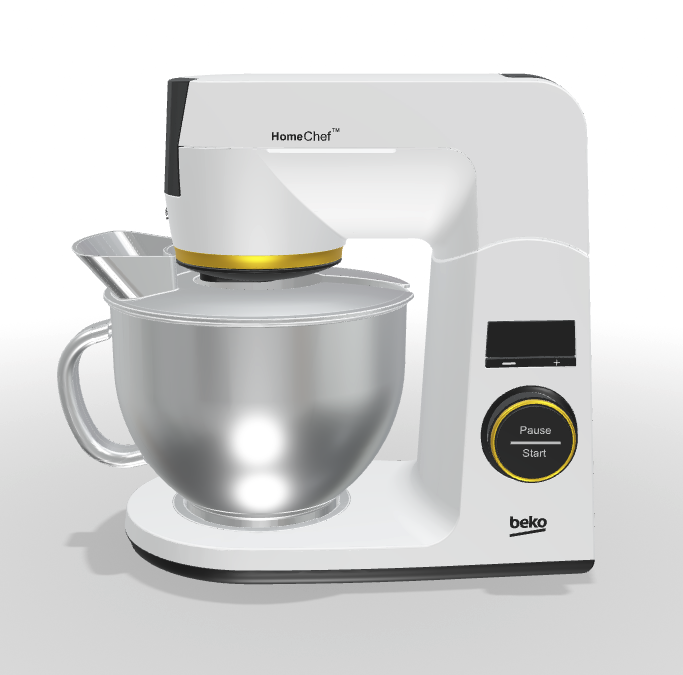
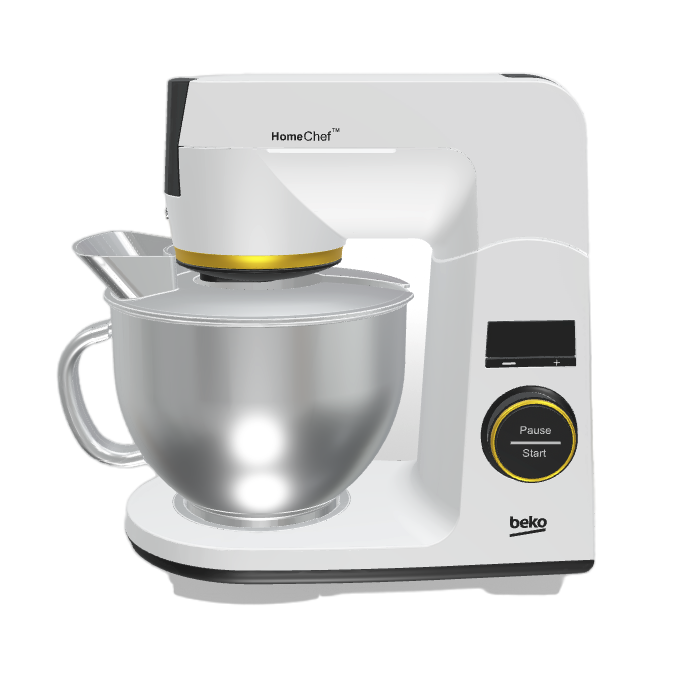
fix images background and slider component

Changed region(s): [[0.0, 0.56, 1.0, 1.0]]

diff --git a/src/components/Slider.jsx b/src/components/Slider.jsx
@@ -1,8 +1,9 @@
-import { ArrowLeftOutlined, ArrowRightOutlined } from "@material-ui/icons";
-import { useState}from "react";
-import React from "react";
-import styled from "styled-components";
-import { mobile } from "../responsive";
+import {ArrowLeftOutlined, ArrowRightOutlined} from '@material-ui/icons';
+import {useState} from 'react';
+import React from 'react';
+import styled from 'styled-components';
+import {items} from '../constants/data';
+import {mobile} from '../responsive/';
 
 const Container = styled.div`
   width: 100%;
@@ -10,64 +11,114 @@ const Container = styled.div`
   display: flex;
   position: relative;
   overflow: hidden;
-  ${mobile({ display: "none" })}
+  ${mobile({display: "none"})}
 `;
 
 const Arrow = styled.div`
-  width: 50px;
-  height: 50px;
-  background-color: #fff7f7;
-  border-radius: 50%;
+  width: 60px;
+  height: 60px;
+  background-color: #ddddaa;
+  border-radius: 60%;
   display: flex;
   align-items: center;
   justify-content: center;
   position: absolute;
   top: 0;
   bottom: 0;
-  left: ${(props) => props.direction === "left" && "12px"};
-  right: ${(props) => props.direction === "right" && "12px"};
+  left: ${(props) => props.direction === 'left' && '12px'};
+  right: ${(props) => props.direction === 'right' && '12px'};
   margin: auto;
   cursor: pointer;
-  opacity: 0.5;
+  opacity: 0.4;
   z-index: 2;
 `;
 
 const Wrapper = styled.div`
   height: 100%;
   display: flex;
-  transition: all 1.5s ease;
+  transition: all 1.4s ease-in;
   transform: translateX(${(props) => props.gridIndex * -100}vw);
 `;
-
-
-
-const Title=styled.div`
+const ItemContainer = styled.div`
+  width: 100vw;
+  height: 100vh;
+  display: flex;
+  align-items: center;
+  ${mobile({display: "none"})}
+  background-color: ${(props) => props.backColor};
 `;
 
+const Image = styled.img`
 
+  margin-left:30px;
+  height: 80%;
+  width: 100%;
+  border-radius: 5;
+`;
+
+const Title = styled.div`
+  font-size:36px;
+  font-weight:600;
+`;
+
+const ImageContainer = styled.div`
+  height: 100%;
+  display: flex;
+  flex-direction: row;
+`;
+const InfoContainer = styled.div`
+  flex: 1;
+  padding: 60px;
+`;
+const Description = styled.div`
+  margin: 50px 0px;
+  font-size: 18px;
+  font-weight: 500;
+  letter-spacing: 1.4px;
+`;
+const Button = styled.button`
+  padding: 10px;
+  font-size: 18px;
+  border-radius: 12%;
+  border-color:#aad;
+  background-color: transparent;
+  cursor: pointer;
+`;
 const Slider = () => {
   const [gridIndex, setgridIndex] = useState(0);
   const handleClick = (direction) => {
-    if (direction === "left") {
-      setgridIndex(gridIndex > 0 ? gridIndex - 1 : 2);
-    }else if(direction ==="right") {
+    if (direction === 'left') {
+      setgridIndex(gridIndex > 0 ? gridIndex - 1 : items.length - 1);
+    } else if (direction === 'right') {
       setgridIndex(gridIndex < 2 ? gridIndex + 1 : 0);
     }
   };
 
   return (
     <Container>
-      <Arrow direction="left" onClick={() => handleClick("left")}>
-        <ArrowLeftOutlined />
+      <Arrow direction="left" onClick={() => handleClick('left')}>
+        <ArrowLeftOutlined style={{fontSize: 40}} />
       </Arrow>
       <Wrapper gridIndex={gridIndex}>
-            <Title>Temporay slides{gridIndex}</Title>
+        {items.map((item) => (
+          <ItemContainer backColor={item.backColor} key={item.id}>
+            <ImageContainer>{console.log(item.backColor)}
+              <Image src={item.image} />
+            </ImageContainer>
+            <InfoContainer>
+              <Title>{item.title}</Title>
+              <Description>{item.description}</Description>
+              <Button >VIEW IN 3D </Button>
+            </InfoContainer>
+          </ItemContainer>
+        ))}
       </Wrapper>
-      <Arrow direction="right" onClick={() => handleClick("right")}>
-        <ArrowRightOutlined />
+      <Arrow direction="right" onClick={() => handleClick('right')}>
+        <ArrowRightOutlined style={{fontSize: 40}} />
       </Arrow>
     </Container>
   );
 };
 
 export default Slider;
+

diff --git a/src/constants/data.js b/src/constants/data.js
@@ -1,22 +1,28 @@
-const items = [
+import {colors} from "./colors";
+
+export const items = [
   {
     id: '61d82bb92e21d40039c73ffc',
-    title: 'Title 1',
-    description: 'This is short description of viewer item',
-    image: require('../assets/images/image1.jpg'),
+    title: 'What it Metaverse and how brands benefit from it?',
+    description: 'What is Metaverse?     Metaverse is a network of virtual environments in which many people can interact with each other and with digital objects using their virtual avatars. Metaverse consists of immersive virtual reality, multiplayer online role-playing game',
+    image: require('../assets/images/image1.png'),
+    backColor:colors.color1
+
   },
   {
-    id: '61d82bb92e21d40039c73ffc',
-    title: 'Title 1',
-    description: 'This is short description of viewer item',
-    image: require('../assets/images/image2.jpg'),
+    id: '61d82b762e21d40039c73fd4',
+    title: 'What is WebAR? Web-based Augmented Reality (AR)',
+    description: 'WebAR or Web-based AR is a kind of AR experience where Augmented Reality (AR) experiences can be completely on web browsers. Thanks to the WebAR feature, they have the opportunity to view 3D where they are completely in Augmented Reality (AR) via web browsers on their...',
+    image: require('../assets/images/image2.png'),
+    backColor:colors.color2,
   },
   {
-    id: '61d82bb92e21d40039c73ffc',
-    title: 'Title 1',
-    description: 'This is short description of viewer item',
-    image: require('../assets/images/image3.jpg'),
+    id: '61b34cf157822f0039e090d6',
+    title: 'Future of Augmented Reality',
+    description: 'Today Augmented Reality (AR) is not only a PR activity for companies just want to attract attention but also a new approach to create value creation both the company and its customers. Today you can measure the m2 of your living room, put virtual furniture just near...',
+    image: require('../assets/images/image3.png'),
+    backColor:colors.color3,
   }
 ];
 
-export default items;
+

diff --git a/src/constants/colors.js b/src/constants/colors.js
@@ -148,7 +148,10 @@ export const COLORS = [
     'yellowgreen',
 ];
 
-const colors = {
+export const colors = {
+    color1:"#f5fafd",
+    color2:"#fcf1ed",
+    color3:"#fbf0f4",
     background: '#F9F9FB',
     textDark: '#313234',
     primary: '#F5CA48',
@@ -158,5 +161,3 @@ const colors = {
     white: '#FFF',
     black: '#000',
   };
-  
-  export default colors;
